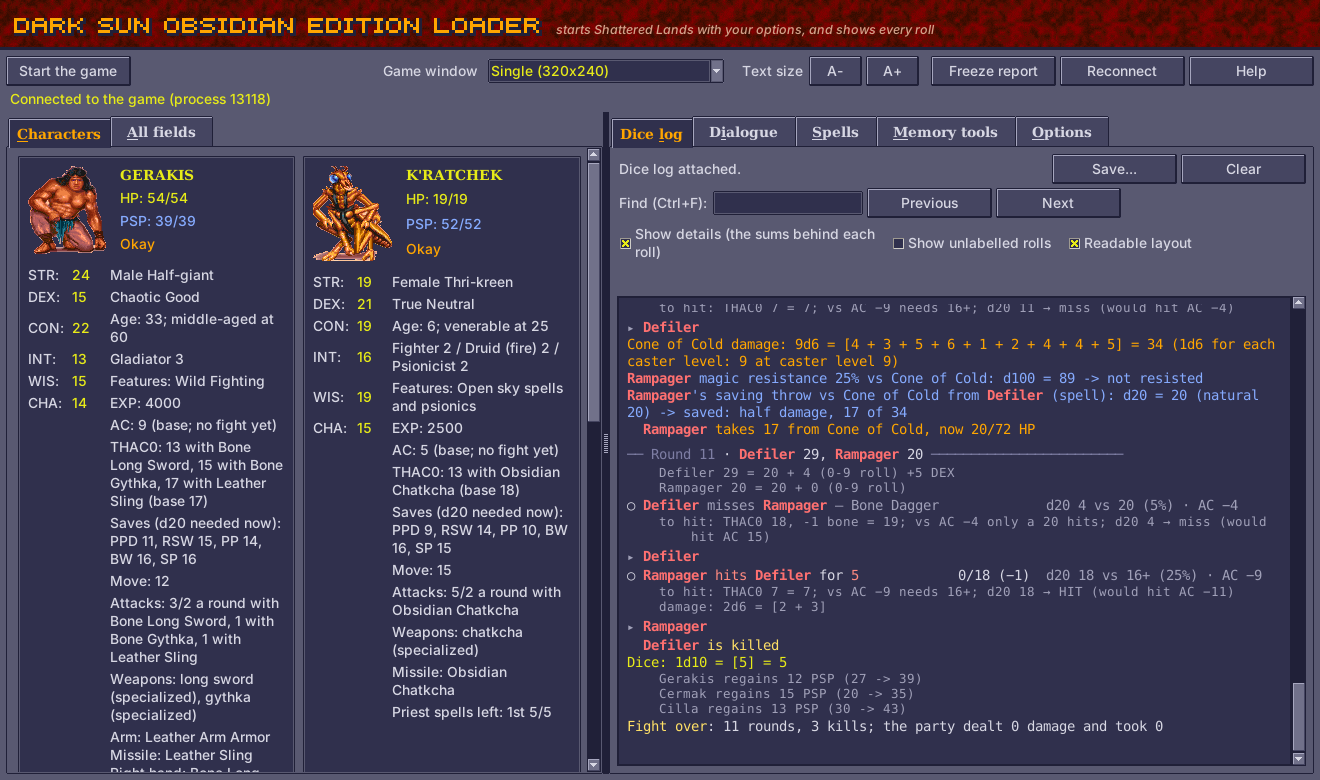
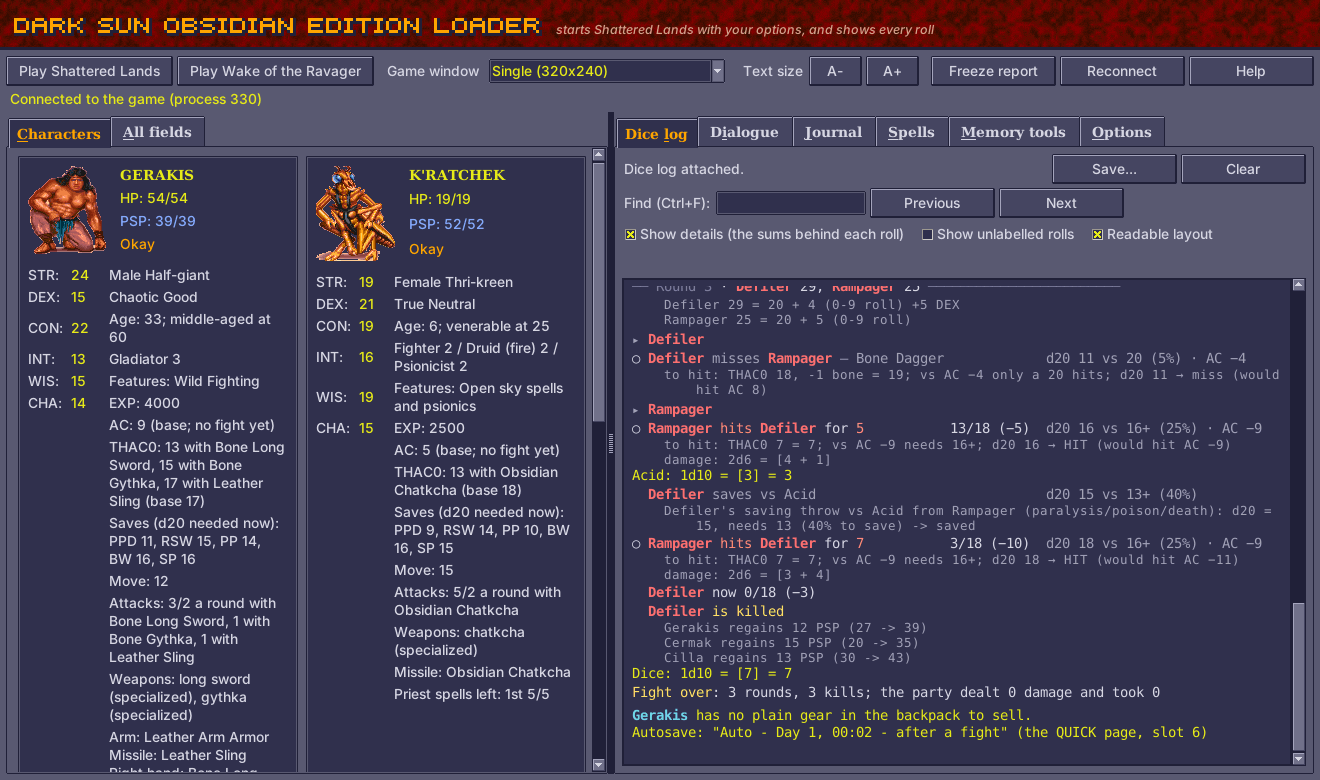
Docs: the Loader pictures retaken with the new bar; the gear table under the class outfits
dicelog.png, dialogue.png and viewer.png show Play Shattered Lands / Play Wake of the Ravager and
the Journal tab. FEATURES' 'What the party wears' says what shows on a class outfit (armour in its
chest, arm and leg regions, plate fitted; a cloak on its mantle or hood, or a fitted cape) and the
shape each of Wake of the Ravager's weapon kinds takes. The docs review's follow-up updated; the
play log and the Loader-window lessons in PLAYTESTING.md.

Claude-Session: https://claude.ai/code/session_01MpsiUApyHGZpq9Kd7vWnn7

diff --git a/obsidian-edition/manual/features.html b/obsidian-edition/manual/features.html
@@ -335,8 +335,8 @@ Jenna attacks Arena Guard with Wooden Double Spear (1d8): d20 = 6, needs 10+ (55
 <p><strong>Always on</strong> (no switch), both. How it works: <a href="https://github.com/daaki85/darksun-obsidian-edition/blob/v2.19.2/obsidian-edition/DEVELOPMENT-CONTENT.md#elves-and-half-elves">DEVELOPMENT-CONTENT.md</a>.</p>
 <h3 id="what-the-party-wears">What the party wears</h3>
 <p><strong>Class outfits.</strong> Each party member is dressed for their class before any gear goes on: humans in the outfit of their class (the mage in a plum mantle, the thief hooded, the psionicist in teal), dwarves, elves, half-elves, half-giants, halflings and the mul in an outfit for their whole class combination. Each half-elf has 48 outfits, including the Cleric/Preserver’s cream and plum robe. The thri-kreen and combinations outside the outfit roster, such as an elf with Druid among her classes, keep the game's own figure. The creation screen's small figure wears the outfit of the class (or classes) picked, and changes as the class, race or sex does. The outfits were drawn for the mod on the game's own figures and poses: <a href="https://github.com/daaki85/darksun-obsidian-edition/blob/7a0b6200b0c218f7a27ccc4b0c3fece7cdf59fe4/obsidian-edition/docs/class-outfits/README.md">every outfit, animated online</a>.</p>
-<p>The game draws each race and sex the same whatever they carry; the Loader keeps the artist's pictures and adds the gear, frame by frame, walking and fighting, changing as soon as the gear does:</p>
-<div class="tablewrap"><table><thead><tr><th>Worn</th><th>Shown</th></tr></thead><tbody><tr><td><strong>Weapons and shields</strong></td><td>each weapon type its shape (dagger, sword, club, mace, axe, polearm, gythka, staff, a round shield) in its material's colours (wood, ivory bone, stone, obsidian, metal); worn at the belt or carried upright while walking, in the hands and swung in a fight, the shield on the arm</td></tr><tr><td><strong>Bows and slings</strong></td><td>the bow and quiver on the back (the game draws the bow when shooting), a sling or chatkcha at the hip</td></tr><tr><td><strong>Armour</strong></td><td>the character's own clothing recoloured toward its material, shade for shade: the chest piece above the waist, arm pieces at the wrists, leg pieces below the waist; on figures drawn mostly bare (the mul, the dwarf man) only straps and loincloth, so little shows</td></tr><tr><td><strong>Helms</strong></td><td>a circlet at the brow: a feather on leather, a dark stone on iron, low spikes on bone</td></tr><tr><td><strong>Cloaks</strong></td><td>the human woman's cloak, fitted to the wearer, under the hair, in the cloak's colours; from the front it hangs behind</td></tr><tr><td><strong>Boots and belts</strong></td><td>the feet and the waist recoloured (Boots of Elvenkind in soft green)</td></tr><tr><td><strong>Magic</strong></td><td>the spells' weapons whole in the game's animated colours (Flame Blade, Shillelagh, Spiritual Hammer); any other magic weapon or shield glints along its edge, and magic armour, cloaks, helms, boots and belts have a scatter of sparks, in its icon's colour</td></tr><tr><td><strong>Age</strong></td><td>the hair greys with <a href="#ages-and-magical-aging">age</a></td></tr></tbody></table></div>
+<p>The game draws each race and sex the same whatever they carry; the Loader keeps the outfit (or, outside the outfits, the artist's picture) and adds the gear, frame by frame, walking and fighting, changing as soon as the gear does:</p>
+<div class="tablewrap"><table><thead><tr><th>Worn</th><th>Shown</th></tr></thead><tbody><tr><td><strong>Weapons and shields</strong></td><td>each weapon type its shape (dagger, sword, club, mace, axe, polearm, gythka, staff, a round shield; Wake of the Ravager's kinds as the nearest: a two-handed sword a sword, a lotulis a gythka, a double spear a staff, a trikal a polearm, a javelin or darts a chatkcha) in its material's colours (wood, ivory bone, stone, obsidian, metal); worn at the belt or carried upright while walking, in the hands and swung in a fight, the shield on the arm</td></tr><tr><td><strong>Bows and slings</strong></td><td>the bow and quiver on the back (the game draws the bow when shooting), a sling or chatkcha at the hip</td></tr><tr><td><strong>Armour</strong></td><td>on a class outfit, the outfit's own chest, arm and leg regions painted in the armour's material (plate fitted to the body); outside the outfits, the character's own clothing recoloured toward its material, shade for shade: the chest piece above the waist, arm pieces at the wrists, leg pieces below the waist; on figures drawn mostly bare (the mul, the dwarf man) only straps and loincloth, so little shows</td></tr><tr><td><strong>Helms</strong></td><td>a circlet at the brow: a feather on leather, a dark stone on iron, low spikes on bone</td></tr><tr><td><strong>Cloaks</strong></td><td>on a class outfit, the outfit's own mantle or hood, or a cape fitted to it, in the cloak's colours; outside the outfits, the human woman's cloak, fitted to the wearer, under the hair; from the front it hangs behind</td></tr><tr><td><strong>Boots and belts</strong></td><td>the feet and the waist recoloured (Boots of Elvenkind in soft green)</td></tr><tr><td><strong>Magic</strong></td><td>the spells' weapons whole in the game's animated colours (Flame Blade, Shillelagh, Spiritual Hammer); any other magic weapon or shield glints along its edge, and magic armour, cloaks, helms, boots and belts have a scatter of sparks, in its icon's colour</td></tr><tr><td><strong>Age</strong></td><td>the hair greys with <a href="#ages-and-magical-aging">age</a></td></tr></tbody></table></div>
 <p>A thri-kreen shows only weapons and shields; two party members of the same race and sex each show their own. New outfits go into room the game's picture store already has, so gear can be changed as often as you like in one area (without that, 30 to 60 changes filled the store and figures vanished until the next area; <a href="game-bugs.html#pictures-and-memory">the game's own limit of 300 picture slots</a> is a bug mended apart). The outfits and the gear keep their colours in every area (each area's own palette would turn the outfits' browns grey and their plums magenta).</p>
 <p><img src="../docs/gear.png" alt="The ready-made party on the slave pens&#x27; tiled floor, each dressed for their class with the gear they carry: Cermak in the preserver&#x27;s plum mantle, his quarterstaff upright; Gerakis, the mul gladiator, bare-chested with his armour&#x27;s straps and loincloth; Cilla, an elf with Druid among her classes, and K&#x27;ratchek the thri-kreen in the game&#x27;s own figures"></p>
 <p><img src="../docs/magic-glint.gif" alt="Gerakis in a fight in the arena in magic gear, +2 leather pieces and the Searing Blade at his hip: sparks shimmer over the leather, and the blade&#x27;s edge glints"></p>

diff --git a/obsidian-edition/FEATURES.md b/obsidian-edition/FEATURES.md
@@ -1304,16 +1304,17 @@ classes, keep the game's own figure. The creation screen's small figure wears th
 of the class (or classes) picked, and changes as the class, race or sex does. The outfits were drawn for the mod on the game's own figures and poses: [every outfit,
 animated online](https://github.com/daaki85/darksun-obsidian-edition/blob/7a0b6200b0c218f7a27ccc4b0c3fece7cdf59fe4/obsidian-edition/docs/class-outfits/README.md).
 
-The game draws each race and sex the same whatever they carry; the Loader keeps the artist's
-pictures and adds the gear, frame by frame, walking and fighting, changing as soon as the gear does:
+The game draws each race and sex the same whatever they carry; the Loader keeps the outfit (or, outside
+the outfits, the artist's picture) and adds the gear, frame by frame, walking and fighting, changing as
+soon as the gear does:
 
 | Worn | Shown |
 |---|---|
-| **Weapons and shields** | each weapon type its shape (dagger, sword, club, mace, axe, polearm, gythka, staff, a round shield) in its material's colours (wood, ivory bone, stone, obsidian, metal); worn at the belt or carried upright while walking, in the hands and swung in a fight, the shield on the arm |
+| **Weapons and shields** | each weapon type its shape (dagger, sword, club, mace, axe, polearm, gythka, staff, a round shield; Wake of the Ravager's kinds as the nearest: a two-handed sword a sword, a lotulis a gythka, a double spear a staff, a trikal a polearm, a javelin or darts a chatkcha) in its material's colours (wood, ivory bone, stone, obsidian, metal); worn at the belt or carried upright while walking, in the hands and swung in a fight, the shield on the arm |
 | **Bows and slings** | the bow and quiver on the back (the game draws the bow when shooting), a sling or chatkcha at the hip |
-| **Armour** | the character's own clothing recoloured toward its material, shade for shade: the chest piece above the waist, arm pieces at the wrists, leg pieces below the waist; on figures drawn mostly bare (the mul, the dwarf man) only straps and loincloth, so little shows |
+| **Armour** | on a class outfit, the outfit's own chest, arm and leg regions painted in the armour's material (plate fitted to the body); outside the outfits, the character's own clothing recoloured toward its material, shade for shade: the chest piece above the waist, arm pieces at the wrists, leg pieces below the waist; on figures drawn mostly bare (the mul, the dwarf man) only straps and loincloth, so little shows |
 | **Helms** | a circlet at the brow: a feather on leather, a dark stone on iron, low spikes on bone |
-| **Cloaks** | the human woman's cloak, fitted to the wearer, under the hair, in the cloak's colours; from the front it hangs behind |
+| **Cloaks** | on a class outfit, the outfit's own mantle or hood, or a cape fitted to it, in the cloak's colours; outside the outfits, the human woman's cloak, fitted to the wearer, under the hair; from the front it hangs behind |
 | **Boots and belts** | the feet and the waist recoloured (Boots of Elvenkind in soft green) |
 | **Magic** | the spells' weapons whole in the game's animated colours (Flame Blade, Shillelagh, Spiritual Hammer); any other magic weapon or shield glints along its edge, and magic armour, cloaks, helms, boots and belts have a scatter of sparks, in its icon's colour |
 | **Age** | the hair greys with [age](#ages-and-magical-aging) |

diff --git a/playtest/logs/2026-11-27-loader-pictures.md b/playtest/logs/2026-11-27-loader-pictures.md
@@ -1,0 +1,22 @@
+# 2026-11-27: the Loader pictures retaken with the new bar
+
+Under test: nothing changed in the code; the docs' pictures of the Loader window (`dicelog.png`,
+`dialogue.png`, `viewer.png`) still showed the old button bar (Start the game, no Journal tab).
+Build: `origin/obsidian-edition` at 497966e (after #257), branch `claude/docs-pictures-retake`.
+
+Steps and what was seen:
+
+- Xvfb `:55` at 2100x900 started by hand, `sh start.sh` (DOSBox at 0,0, 320x240), its text dice log
+  killed by pid, `dice.txt` emptied, the window started from the wrapper `/tmp/playtest/winwrap.py`
+  (`python3.12`, runs `dsloader view` with `Viewer._append_dice` also writing to `dice.txt`), moved to
+  340,0: "Connected to the game (process 330)", the new bar, Readable layout and Show details ticked.
+- A new game: the title clicked twice, `s`, then `boxclick.sh` through the opening show. The
+  Loader-written `dice.txt` never has "Step forward" (the Announcer's lines go to the Dialogue tab, not
+  the dice log), so a loop waiting for it, as `topartyfight.sh` does with the text dice log, never stops:
+  wait for "Fight over" instead. The show: 3 rounds, the Rampager killed the Defiler with 2d6 and Acid.
+- `dicelog.png`: the window cropped from the root (1320x780 at 340,0), Characters with Gerakis and
+  K'ratchek, the Dice log at the round's end. `dialogue.png`: the Dialogue tab, the Announcer twice.
+- `viewer.png` (earlier, on `:56`, the practice program FAKEPTY.COM and `window_scale` 3): Memory tools,
+  "sadira" searched and assigned to slot 1, All fields.
+- `dicelog-readable.png` not retaken: it is a crop of the log alone, no bar. `fogbolt.png` not retaken.
+- PNG8 (`convert -colors 256`): 88 KB and 65 KB.

diff --git a/reports/docs-review-2026-11-27.md b/reports/docs-review-2026-11-27.md
@@ -159,7 +159,12 @@ the subsection it sat in; it has a page of its own now (3.2, #234).
 - The patch notes' Wake of the Ravager section links to RAVAGER.md (not FEATURES' short paragraph),
   and has the figures (#250, #251, #253) and the Effects screen's lines (#245, #249); the Scholar's
   −1 to hit is named with its extra spells as still to come, as KITS' table has it.
-- Still open, both need a play: the **Loader pictures with the old bar** (`dicelog.png`,
-  `dicelog-readable.png`, `dialogue.png`, `viewer.png`), the figure pictures #252 didn't retake
-  (`half-elves.png` is now captioned as the bare race figures; `fogbolt.png`, `show-usable.png`,
-  `default-party-armor.png`, `use-slots.png`), and **FEATURES' gear table** under the outfits.
+- Done after #257: `dicelog.png`, `dialogue.png` and `viewer.png` retaken with the new bar (Play
+  Shattered Lands / Play Wake of the Ravager, the Journal tab); `dicelog-readable.png` needed none (a crop
+  of the log alone, no bar). `default-party-armor.png` already shows the outfits (#252); `half-elves.png`
+  is captioned as the bare race figures; `show-usable.png` and `use-slots.png` show no party figures.
+  FEATURES' gear table now says what shows on a class outfit (armour in the outfit's chest, arm and leg
+  regions, plate fitted; a cloak on the outfit's own mantle or hood, or a fitted cape) and which shape each
+  of Wake of the Ravager's weapon kinds takes, from `spritegear.py`.
+- Still open: `fogbolt.png` (the user's own party, no outfits; the bolt is gone before a capture unless a
+  Ctrl+F5 loop runs before the click, and a Wild Mul gave "no line of sight" twice in the last try).

diff --git a/playtest/PLAYTESTING.md b/playtest/PLAYTESTING.md
@@ -1589,6 +1589,14 @@ For an outfit review with the loader detached, stage the walking and fighting ch
     `DOSBox-X version 2025.12.01`, so the Engine section shows the default as a player has it, and
     `options_open` with `engine` and `picture` too (nine sections). The Options tab was at
     (1116,132) by then (the Journal tab came before it); the picture 706x2619, y 116 to 2735.
+- **The Loader window under Xvfb** (logs/2026-11-27-loader-pictures.md): a click on a tab or button
+  reaches Tk only after `xdotool windowfocus --sync $W`, and `xdotool type --window` types nothing
+  (focus, then a plain `type`); a Tk message box grabs black with `import -window`, so crop from
+  `import -window root`. A tab click leaves a focus ring on the pane's last button (the Dialogue tab's
+  Clear): click in the text before the grab. With the window at 0,0 the tabs are at y 132 (Memory
+  tools x 1017, All fields 157, Dialogue 744). The window's dice lines never hold "Step forward" (the
+  Dialogue tab has it): wait for "Fight over" when the window, not the text dice log, writes
+  `dice.txt`. A script that sources `env.sh` from outside `playtest/` sets `PT` first.
 - **`docs/dicelog-readable.png`** (logs/2026-11-19-final-audit-fixes.md): the Loader's window
   attached to a game the kit started, so the kit's loops still run. Xvfb `:55` at 1700x900 (start it
   by hand before `loadsave.sh`: start.sh only starts one when none runs), DOSBox at 0,0 and the

diff --git a/playtest/logs/README.md b/playtest/logs/README.md
@@ -230,6 +230,7 @@ schedules and diffs a log made or used.
 | [2026-11-27](2026-11-27-ravager-effects-lines.md) | Wake of the Ravager, the Effects screen's other lines: FLESH ARMORED (AC 4), BARKSKIN (AC 5), REFLECTED IMAGE (1 CHARGE), ENLARGED (+60% DICE) (the Loader's EF_STATS); a computer-cast wall at last: the AI's spell weights (Wall of Fog's 0), Ar'Anda knowing Wall of Fire and Wall of Ice cast Wall of Fire on her first turn (ai_walls 1) |
 | [2026-11-27](2026-11-27-ravager-figures.md) | Wake of the Ravager's redrawn figures in the Loader's copies, and the region file's redirect |
 | [2026-11-27](2026-11-27-ravager-sl-interface.md) | Wake of the Ravager with Shattered Lands' screens and icons (ravui): the USE screen and the inventory, with and without |
+| [2026-11-27](2026-11-27-loader-pictures.md) | The Loader pictures retaken with the new bar |
 
 ## files/
 

diff --git a/CHANGELOG.md b/CHANGELOG.md
@@ -393,6 +393,9 @@ page](obsidian-edition/RAVAGER.md) have the detail.
 - The Player's Guide's weapon tables (damage, the clerics' spheres, mundane and magic weapons, who wields which
   magic weapon) and the backstab table in How the game works list Wake of the Ravager's weapon kinds, their
   metal, obsidian and bone ones and their 13 magic ones (#257).
+- The Loader's pictures (`dicelog.png`, `dialogue.png`, `viewer.png`) retaken with the new bar; FEATURES'
+  table of what the party wears says what shows on a class outfit and the shape of each of Wake of the
+  Ravager's weapon kinds (#259).
 
 **Dev**
 - DOSBox-X: `dsloader/dosboxx.py`, `process.FileMemory`; `tests/test_dosboxx.py`,
